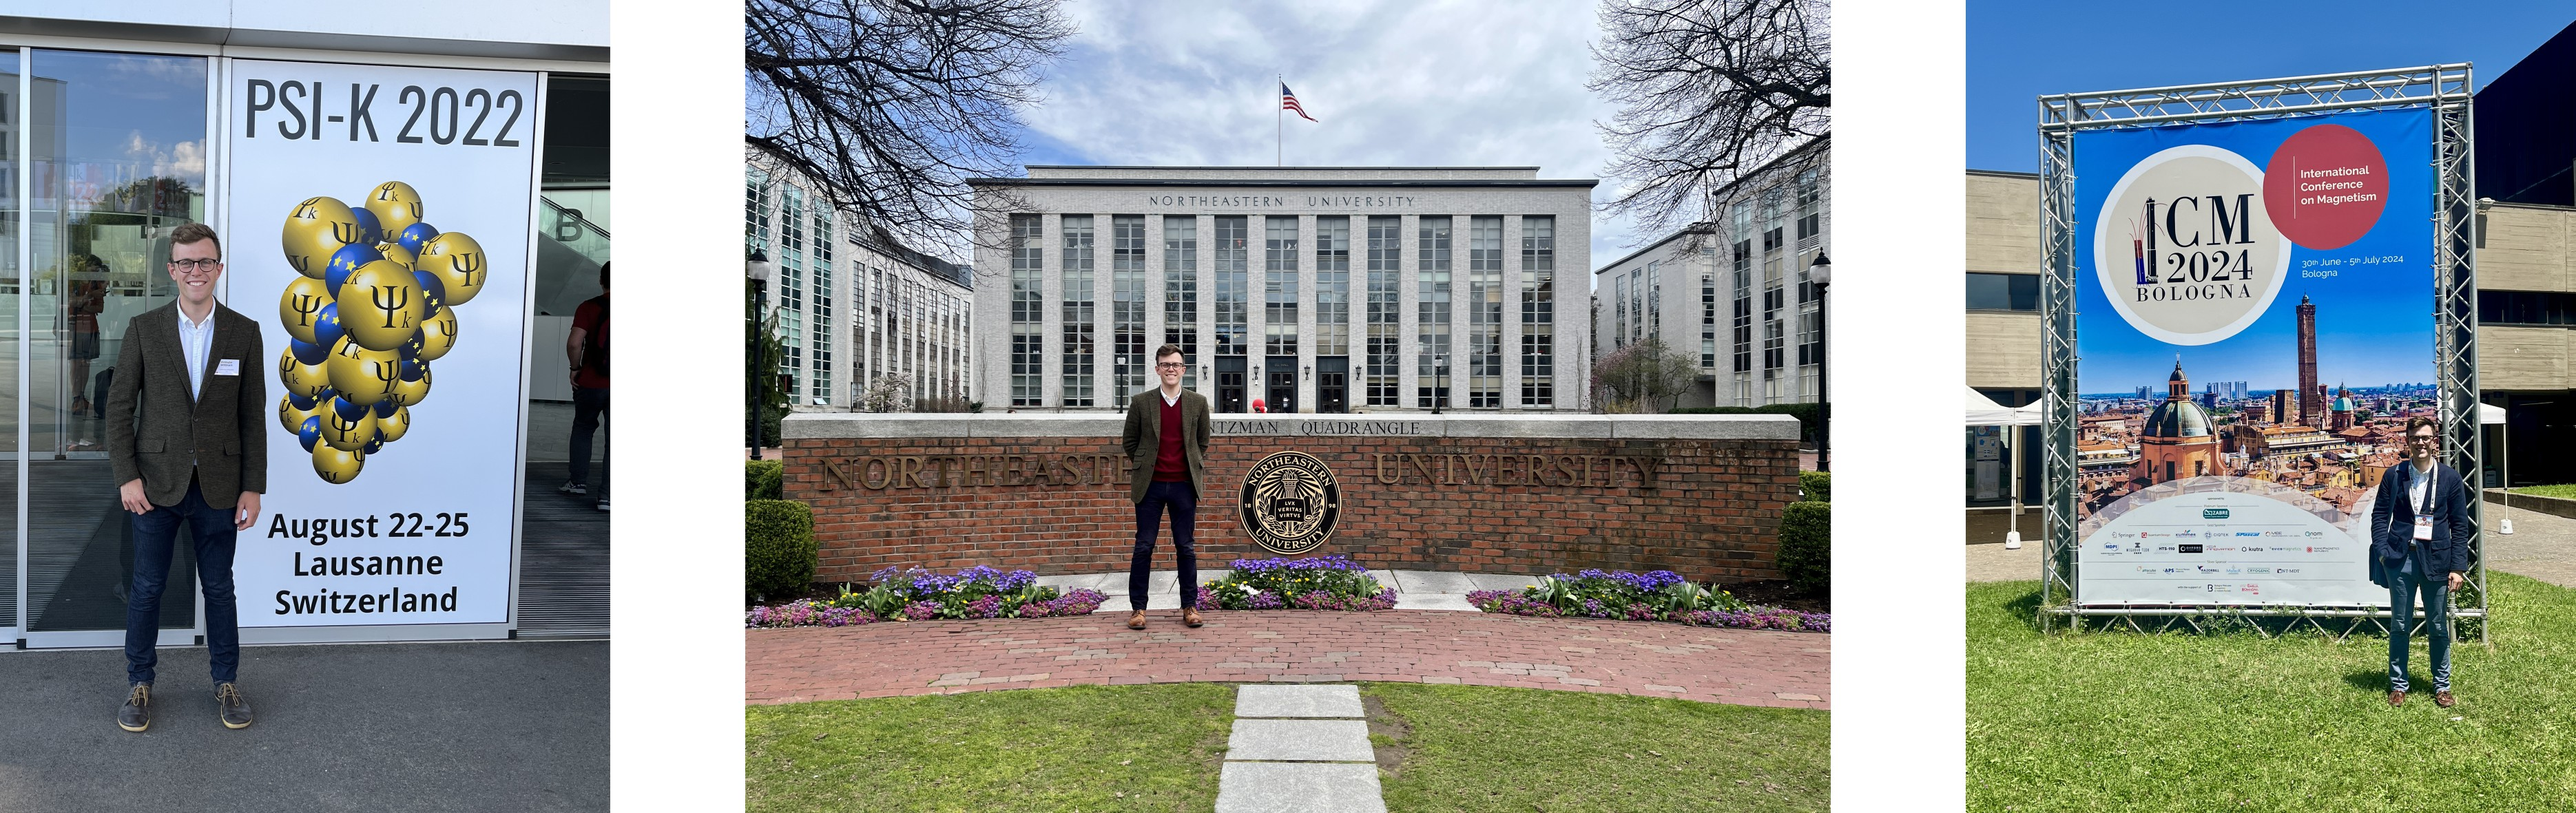
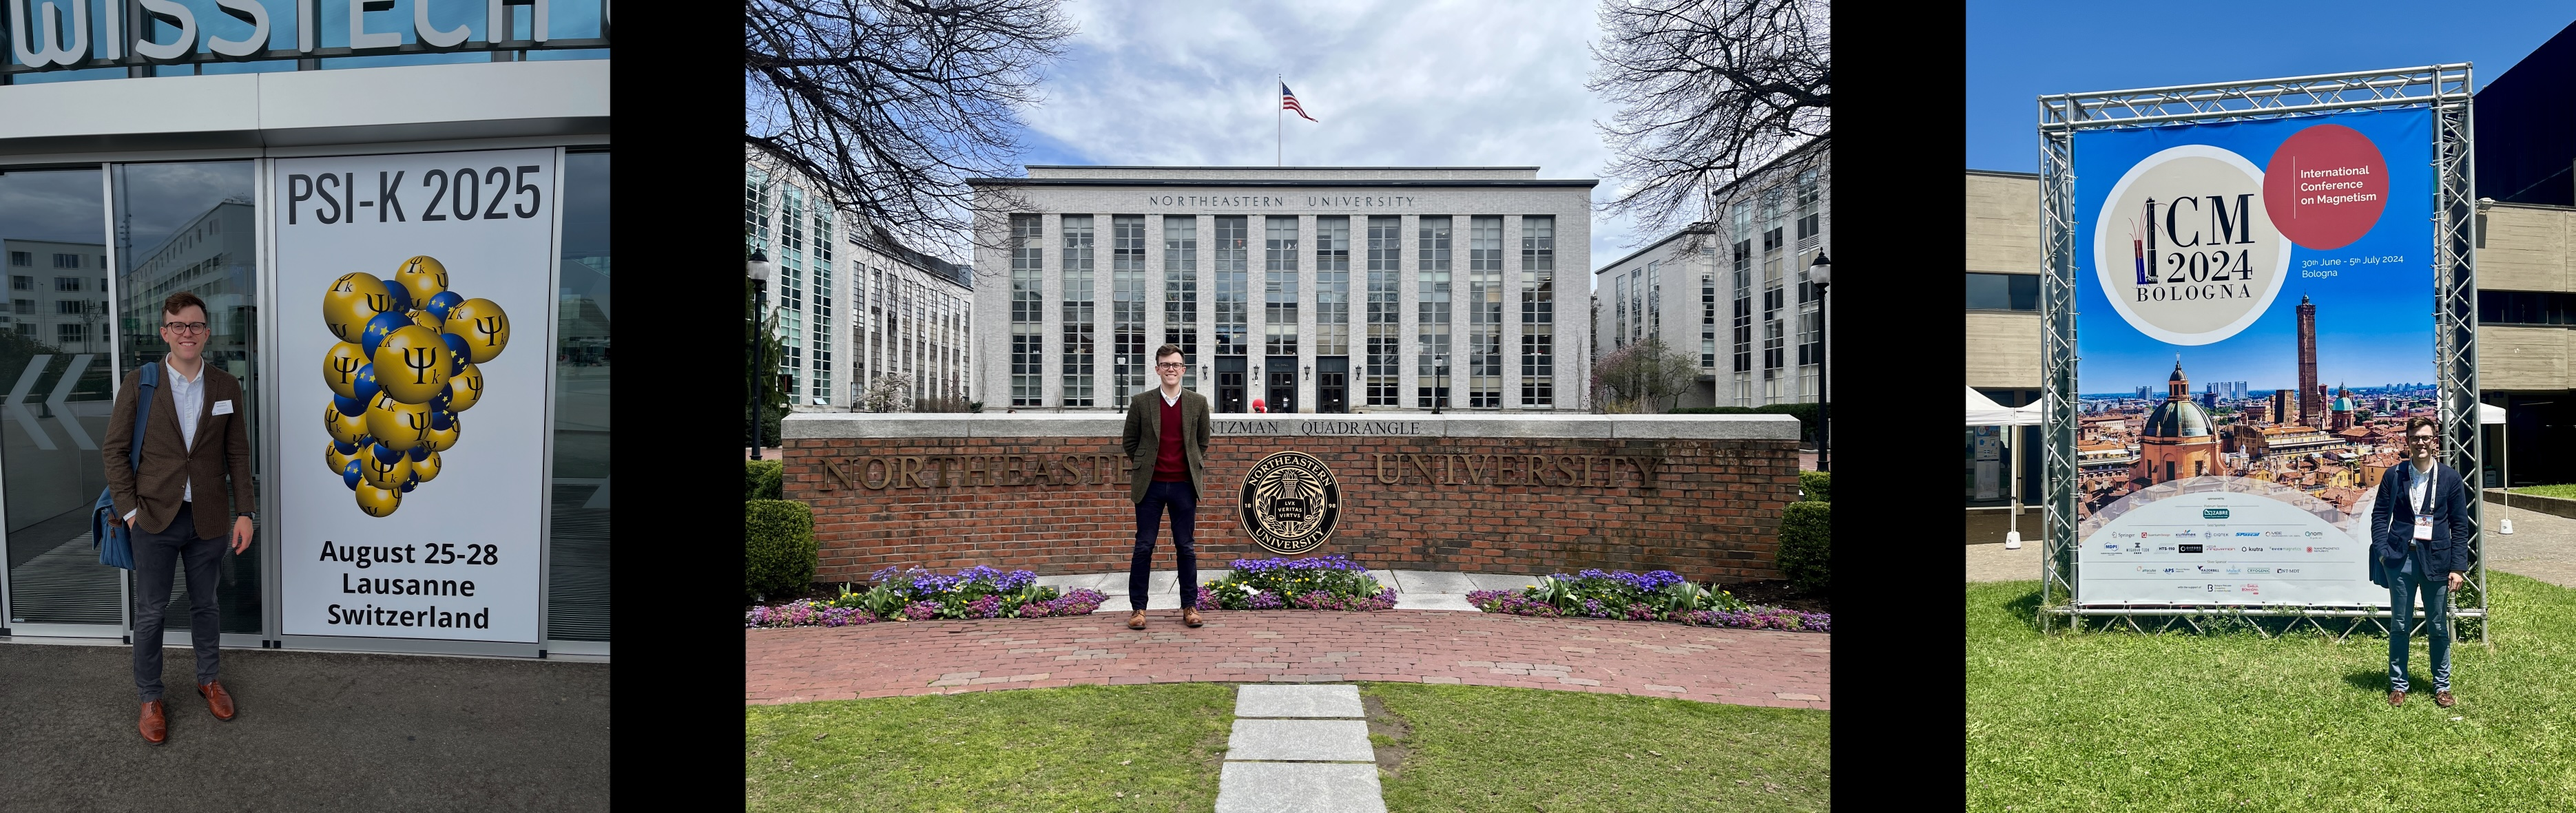
Updating about page with funders, etc.

diff --git a/_pages/about.md b/_pages/about.md
@@ -26,10 +26,10 @@ Current activities focus on the physics of alloys and magnetic systems, includin
 
 <figure class="align-center">
   <img src="{{ site.url }}{{ site.baseurl }}/images/travel_pictures.jpg" alt="Pictures of C.D.W. at various conferences/universities.">
-  <figcaption>Presenting at the 2022 Psi-k Conference (left), at Northeastern University (centre) and at the International Conference on Magnetism 2024 (right).</figcaption>
+  <figcaption>Presenting at the 2025 Psi-k Conference (left), at Northeastern University (centre) and at the International Conference on Magnetism 2024 (right).</figcaption>
 </figure> 
 
-I am grateful to the various organisations that provide (or have previously provided) financial support for my research activities. This includes funding from the [UK Engineering and Physical Sciences Research Council (EPSRC)](https://www.ukri.org/councils/epsrc/), the [Computational Science Centre for Research Communities (CoSeC)](https://www.cosec.ac.uk), the [Institute for Complex Adaptive Matter (ICAM)](https://www.icam-i2cam.org), and the [Gordon and Betty Moore Foundation](https://www.moore.org).
+I am grateful to the various organisations that provide (or have previously provided) financial support for my research and related activities. This includes funding from: the [UK Engineering and Physical Sciences Research Council (EPSRC)](https://www.ukri.org/councils/epsrc/), the [Computational Science Centre for Research Communities (CoSeC)](https://www.cosec.ac.uk), the [UK Institute of Physics](https://www.iop.org), the [Institute for Complex Adaptive Matter (ICAM)](https://www.icam-i2cam.org), and the [Gordon and Betty Moore Foundation](https://www.moore.org).
 
 For further information about my research, teaching, and outreach, please see the other pages on this site.
 
